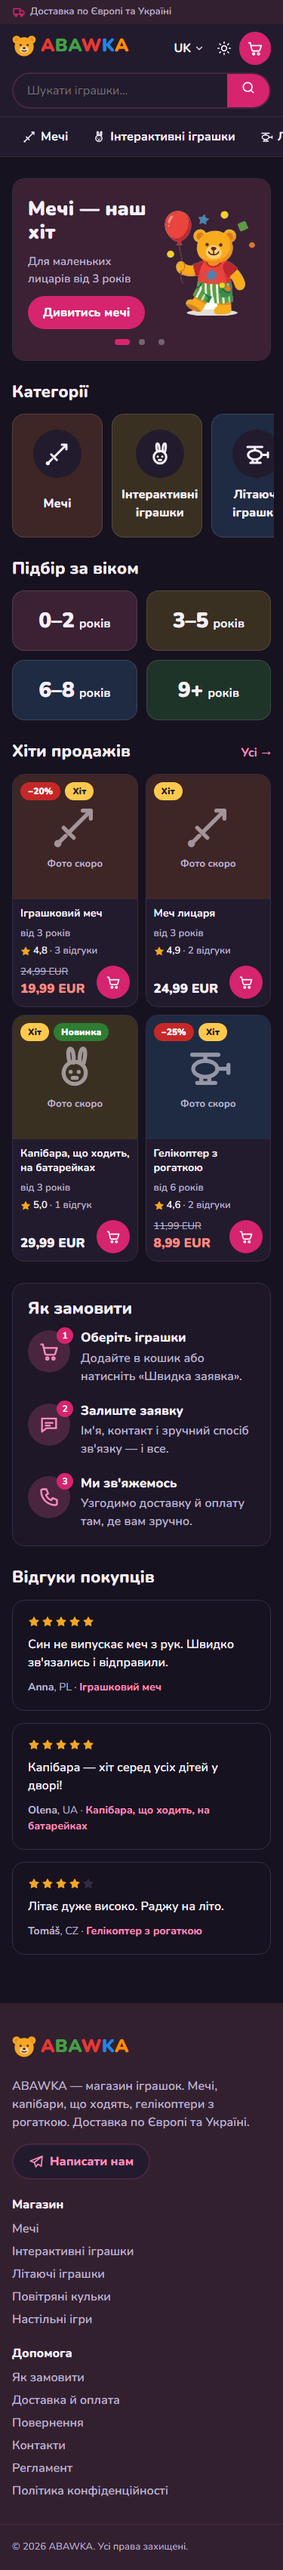
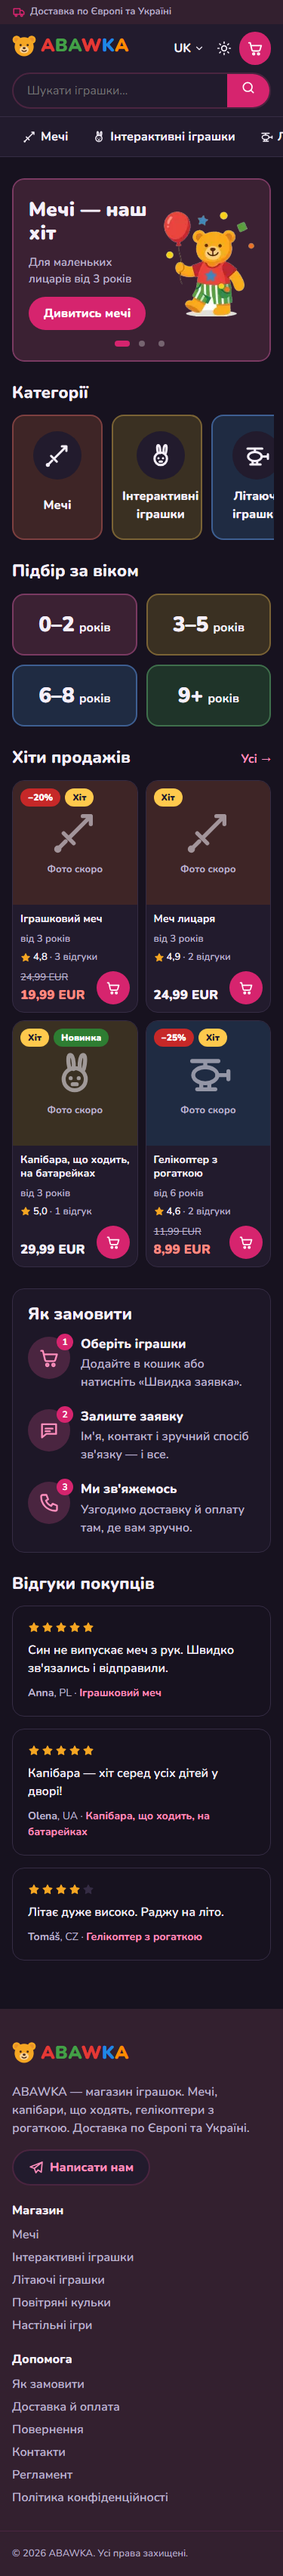
Make tile outlines clearly visible
2px border in a stronger shade of each tile's own colour (pink, yellow,
red, blue, green) for both themes; each hero slide gets its own outline.

diff --git a/src/styles/global.css b/src/styles/global.css
@@ -35,8 +35,13 @@
   --bg-soft: light-dark(#faf7fb, #1d1727);
   --surface: light-dark(#ffffff, #221b2d); /* картки, шапка, меню */
   --dot: light-dark(rgb(31 27 46 / 0.25), rgb(255 255 255 / 0.3));
-  /* Контур кольорових плиток: напівпрозорий, тож на кожному фоні виходить темніший відтінок того ж кольору. */
-  --tile-border: light-dark(rgb(31 27 46 / 0.12), rgb(255 255 255 / 0.12));
+  /* Контур кольорових плиток — насиченіший відтінок кольору самої плитки (ставиться класом .tint-*). */
+  --tile-border: var(--line);
+  --tint-pink-border: light-dark(#ef8fb7, #7a3a62);
+  --tint-yellow-border: light-dark(#e8bf55, #7a6335);
+  --tint-red-border: light-dark(#ee9888, #7d4040);
+  --tint-blue-border: light-dark(#86b6ee, #3e5f92);
+  --tint-green-border: light-dark(#8ccb96, #3f6f4c);
 
   --radius: 16px;
   --radius-sm: 10px;
@@ -94,11 +99,11 @@ h1, h2, h3 { line-height: 1.2; margin: 0; font-weight: 800; }
 :focus-visible { outline: 3px solid var(--pink-500); outline-offset: 2px; border-radius: 6px; }
 .sr-only { position: absolute; width: 1px; height: 1px; overflow: hidden; clip: rect(0 0 0 0); white-space: nowrap; }
 
-.tint-pink { background: var(--tint-pink); }
-.tint-yellow { background: var(--tint-yellow); }
-.tint-red { background: var(--tint-red); }
-.tint-blue { background: var(--tint-blue); }
-.tint-green { background: var(--tint-green); }
+.tint-pink { background: var(--tint-pink); --tint-border: var(--tint-pink-border); }
+.tint-yellow { background: var(--tint-yellow); --tint-border: var(--tint-yellow-border); }
+.tint-red { background: var(--tint-red); --tint-border: var(--tint-red-border); }
+.tint-blue { background: var(--tint-blue); --tint-border: var(--tint-blue-border); }
+.tint-green { background: var(--tint-green); --tint-border: var(--tint-green-border); }
 
 @media (prefers-reduced-motion: reduce) {
   *, *::before, *::after { transition: none !important; animation: none !important; scroll-behavior: auto !important; }

diff --git a/tests/e2e/home.spec.ts b/tests/e2e/home.spec.ts
@@ -142,9 +142,13 @@ test('coloured tiles have an outline in both themes', async ({ browser }) => {
   for (const colorScheme of ['light', 'dark'] as const) {
     const page = await browser.newPage({ colorScheme });
     await page.goto('/en/');
-    for (const sel of ['.hero', '.cat', '.age']) {
-      const border = await page.locator(sel).first().evaluate((e) => getComputedStyle(e).borderTopWidth);
-      expect(border, `${sel} in ${colorScheme}`).toBe('1px');
+    for (const sel of ['.slide', '.cat', '.age']) {
+      const { width, color, bg } = await page.locator(sel).first().evaluate((e) => {
+        const s = getComputedStyle(e);
+        return { width: s.borderTopWidth, color: s.borderTopColor, bg: s.backgroundColor };
+      });
+      expect(width, `${sel} in ${colorScheme}`).toBe('2px');
+      expect(color, `${sel} border must differ from its fill`).not.toBe(bg);
     }
     await page.close();
   }
